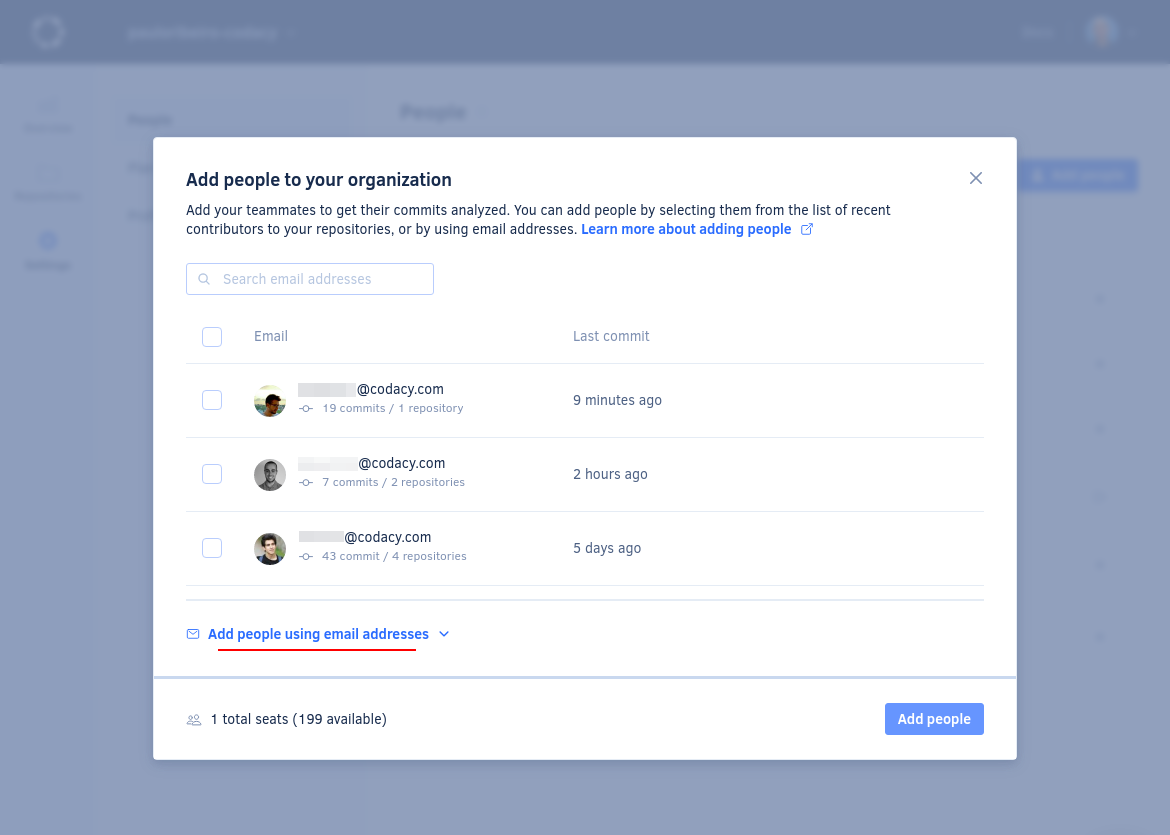
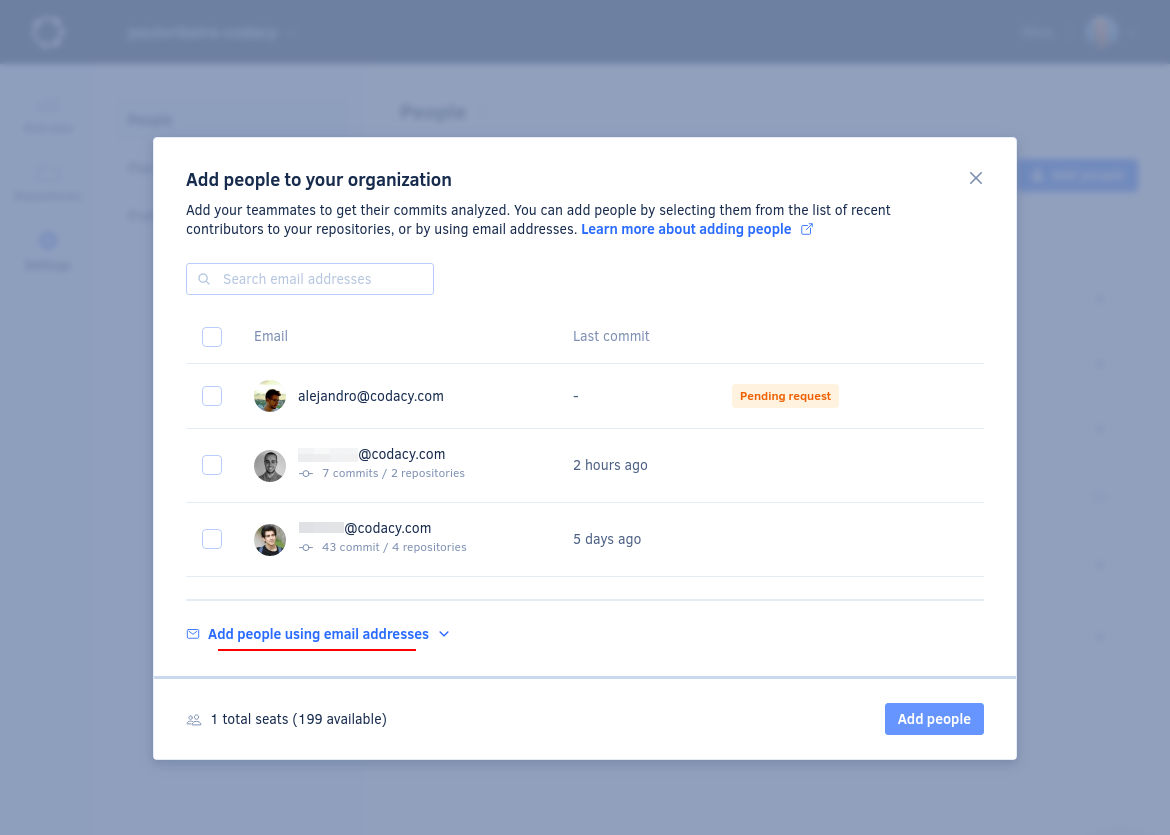
feature: Mention pending join requests
Updates the add people modal window screenshot to include a pending
join request, and also makes reference to this in the surrounding
text.

diff --git a/docs/organizations/managing-people.md b/docs/organizations/managing-people.md
@@ -26,7 +26,7 @@ Organization owners can control who joins their organization by choosing one of 
 
 ## Adding people to your organization {: id="adding-people"}
 
-Organization owners can add other team members to their organization on Codacy. This is useful to allow Codacy to analyze commits in private repositories by contributors who haven't signed up for Codacy yet.
+Organization owners can invite team members to their organization on Codacy. This is useful to allow Codacy to analyze commits in private repositories by contributors who haven't signed up to Codacy or joined the organization yet.
 
 To add members to your organization:
 
@@ -34,7 +34,9 @@ To add members to your organization:
 
     ![Adding members to your organization](images/organization-people-add-button.png)
 
-1.  Select people from the list of recent contributors to the repositories in your organization. Alternatively, click **Add people using email addresses** to manually enter the list of email addresses of the people you wish to add.
+1.  Select people from the list displaying pending requests to join the organization, as well as recent contributors to the private repositories in your organization.
+
+    Alternatively, click **Add people using email addresses** to manually enter the list of email addresses of the people you wish to add.
 
     ![Adding members to your organization](images/organization-people-add-modal.png)
 
